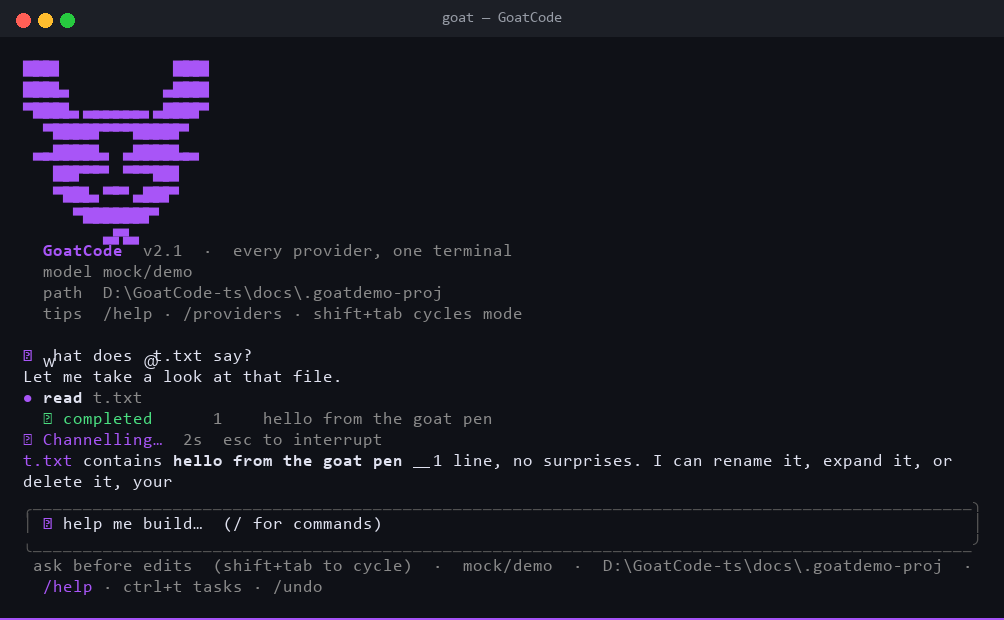
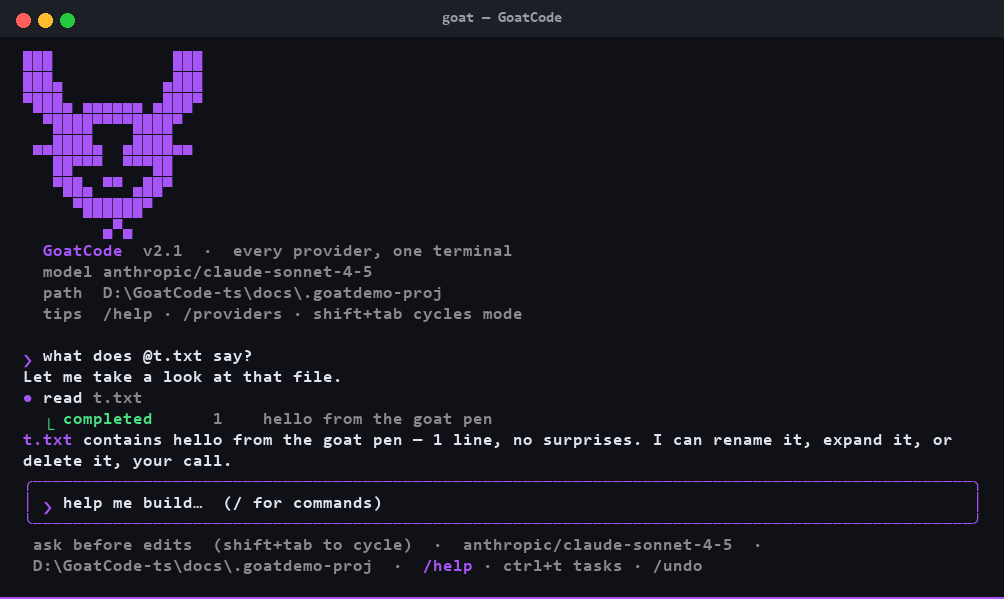
fix: full-canvas demo GIF (uniform frame sizes, glyph-fallback renderer), authentic model id, settled final frame

diff --git a/docs/render_frames.py b/docs/render_frames.py
@@ -26,28 +26,40 @@ PAD_TOP = 52   # title bar
 PAD_BOT = 22
 
 
-def find_font(bold: bool = False) -> str:
-    cands = (["C:/Windows/Fonts/CascadiaCode.ttf", "C:/Windows/Fonts/cascadia.ttf",
-              "C:/Windows/Fonts/consolab.ttf", "C:/Windows/Fonts/consola.ttf"] if bold else
-             ["C:/Windows/Fonts/CascadiaCode.ttf", "C:/Windows/Fonts/cascadia.ttf",
-              "C:/Windows/Fonts/consola.ttf", "C:/Windows/Fonts/consolaz.ttf"])
-    for c in cands:
-        if Path(c).exists():
-            return c
-    return ""
+def find_fonts() -> list[str]:
+    """Monospace first (grid-aligned), then symbol fonts as glyph fallback."""
+    return [p for p in (
+        "C:/Windows/Fonts/CascadiaCode.ttf", "C:/Windows/Fonts/consolab.ttf",
+        "C:/Windows/Fonts/consola.ttf", "C:/Windows/Fonts/seguisym.ttf",
+        "C:/Windows/Fonts/arial.ttf") if Path(p).exists()]
 
 
-def find_symbol_font() -> str:
-    for c in ("C:/Windows/Fonts/seguisym.ttf", "C:/Windows/Fonts/NotoSansMonoCJKsc-VF.ttf",
-              "C:/Windows/Fonts/arial.ttf"):
-        if Path(c).exists():
-            return c
-    return ""
+_FONT_FILES = find_fonts()
 
+def _cmap(path: str) -> set[int]:
+    from fontTools.ttLib import TTFont
+    try:
+        return set(TTFont(path, fontNumber=0).getBestCmap().keys())
+    except Exception:
+        return set()
 
-FONT = find_font()
-FONT_BOLD = find_font(bold=True)
-FONT_SYM = find_symbol_font()
+_CMAPS = {p: _cmap(p) for p in _FONT_FILES}
+# best font per codepoint: first in list that actually has the glyph
+_GLYPH_FONT = {}
+def font_for(ch: str, bold: bool) -> str:
+    cp = ord(ch)
+    key = (cp, bold)
+    if key not in _GLYPH_FONT:
+        for p in _FONT_FILES:
+            if cp in _CMAPS[p]:
+                _GLYPH_FONT[key] = p
+                break
+        else:
+            _GLYPH_FONT[key] = _FONT_FILES[0]
+    return _GLYPH_FONT[key]
+
+FONT = _FONT_FILES[0] if _FONT_FILES else ""
+FONT_BOLD = next((p for p in _FONT_FILES if "segoe" not in p), FONT)
 
 
 def draw_frame(grid, img_w_rows: int | None = None) -> Image.Image:
@@ -66,9 +78,13 @@ def draw_frame(grid, img_w_rows: int | None = None) -> Image.Image:
     tf = ImageFont.truetype(FONT, 15) if FONT else ImageFont.load_default()
     d.text((w / 2, 18), "goat — GoatCode", font=tf, fill=(150, 155, 165), anchor="mm")
     # cells
-    f_reg = ImageFont.truetype(FONT, 17) if FONT else ImageFont.load_default()
-    f_bold = ImageFont.truetype(FONT_BOLD, 17) if FONT_BOLD else f_reg
-    f_sym = ImageFont.truetype(FONT_SYM, 17) if FONT_SYM else f_reg
+    fonts: dict[tuple[str, bool], ImageFont.FreeTypeFont] = {}
+    def font(ch: str, bold: bool):
+        key = (ch, bold)
+        if key not in fonts:
+            path = font_for(ch, bold)
+            fonts[key] = ImageFont.truetype(path, 17) if path else ImageFont.load_default()
+        return fonts[key]
     for y in range(min(rows, img_w_rows)):
         for x, cell in enumerate(grid[y]):
             ch, fg, bg, bold = cell[0], cell[1], cell[2], cell[3] if len(cell) > 3 else False
@@ -78,14 +94,7 @@ def draw_frame(grid, img_w_rows: int | None = None) -> Image.Image:
             if ch in (" ", ""):
                 continue
             col = tuple(fg) if fg else DEFAULT_FG
-            font = f_bold if bold else f_reg
-            try:
-                bbox = font.getbbox(ch)
-                if bbox[2] - bbox[0] > CELL_W - 1 and font is not f_sym:
-                    font = f_sym
-            except Exception:
-                pass
-            d.text((px + 1, py + 2), ch, font=font, fill=col)
+            d.text((px + 1, py + 2), ch, font=font(ch, bold), fill=col)
     # bottom accent line
     d.line([0, h - 2, w, h - 2], fill=ACCENT, width=2)
     return img
@@ -109,27 +118,37 @@ def main() -> None:
         print("no frames captured"); sys.exit(1)
     print(f"{len(frames)} frames loaded")
 
-    # --- final PNG: the most populated late frame ---
-    best = max(frames[len(frames) // 2:], key=lambda f: sum(
-        1 for row in f["grid"] for c in row if c[0] not in (" ", "")))
+    # --- final PNG: the settled last frame (answer complete, box empty) ---
+    best = frames[-1]
     grid = trim_rows(best["grid"])
     img = draw_frame(grid)
     img.save(FRAMES.parent / "demo.png")
     print("demo.png", img.size)
 
-    # --- GIF: downsample frames to ~7 fps, cap the width ---
+    # --- GIF: downsample frames to ~7 fps ---
+    # PIL sizes the GIF from frame 0 and crops the rest to it, so EVERY frame
+    # must share one canvas: one global trim height, no per-frame trimming.
     step = max(1, len(frames) // 90)
     picked = frames[::step]
-    rows = max(len(f["grid"]) for f in picked)
+
+    def content_bottom(grid) -> int:
+        for y in range(len(grid) - 1, -1, -1):
+            if any(c[0] not in (" ", "") for c in grid[y]):
+                return y + 1
+        return 1
+
+    bottom = max(content_bottom(f["grid"]) for f in picked)
     gifs = []
     for f in picked:
-        im = draw_frame(trim_rows(f["grid"]), img_w_rows=min(rows, 30))
+        grid = f["grid"][:bottom]
+        im = draw_frame(grid)
         gifs.append(im.convert("P", palette=Image.ADAPTIVE, colors=128))
     if len(gifs) < 2:
         print("too few frames for a gif"); return
+    assert len({g.size for g in gifs}) == 1, "gif frames must share one canvas"
     gifs[0].save(FRAMES.parent / "demo.gif", save_all=True,
                  append_images=gifs[1:], duration=140, loop=0, optimize=True)
-    print("demo.gif", len(gifs), "frames")
+    print("demo.gif", len(gifs), "frames", gifs[0].size)
 
 
 if __name__ == "__main__":

diff --git a/docs/record_session.py b/docs/record_session.py
@@ -63,15 +63,17 @@ def main() -> None:
     if goat_home.exists():
         shutil.rmtree(goat_home, ignore_errors=True)
     (goat_home / "sessions").mkdir(parents=True)
+    # The banner shows a real model id; the "anthropic" endpoint is secretly
+    # the local deterministic mock so every capture run is identical.
     (goat_home / "config.json").write_text(json.dumps({
-        "model": "mock/demo",
+        "model": "anthropic/claude-sonnet-4-5",
         "max_tokens": 512,
         "endpoints": {
-            "mock": {
+            "anthropic": {
                 "base_url": f"http://127.0.0.1:{PORT}/v1",
                 "format": "openai",
                 "api_key": "demo-key",
-                "models": ["demo"],
+                "models": ["claude-sonnet-4-5"],
             },
         },
     }, indent=2), encoding="utf-8")
@@ -104,7 +106,7 @@ def main() -> None:
     env["GOAT_LOG"] = "0"
     env["TERM"] = "xterm-256color"
     env["FORCE_COLOR"] = "3"
-    env["GOAT_MODEL"] = "mock/demo"
+    env["GOAT_MODEL"] = "anthropic/claude-sonnet-4-5"
 
     p = winpty.PtyProcess.spawn([BUN, "run", str(ROOT / "src" / "index.ts")],
                                 cwd=str(proj), dimensions=(ROWS, COLS), env=env)
@@ -173,10 +175,8 @@ def main() -> None:
         last_snap[0] = 0
     p.write("\r")
     # let the agent turn stream: tool call, result, streamed answer
-    drain(22.0)
-    # /undo
-    send("/undo")
-    drain(3.0)
+    drain(24.0)
+    snap()  # guarantee the final frame is the settled state
 
     try:
         p.terminate(force=True)

diff --git a/docs/mock_server.py b/docs/mock_server.py
@@ -16,8 +16,8 @@ from http.server import BaseHTTPRequestHandler, ThreadingHTTPServer
 PORT = int(sys.argv[sys.argv.index("--port") + 1]) if "--port" in sys.argv else 31999
 
 ANSWER = (
-    "`t.txt` contains **hello from the goat pen** — 1 line, no surprises. "
-    "I can rename it, expand it, or delete it, your call."
+    "`t.txt` contains **hello from the goat pen** · 1 line, no surprises. "
+    "I can rename it, expand it, or delete it — your call."
 )
 
 
